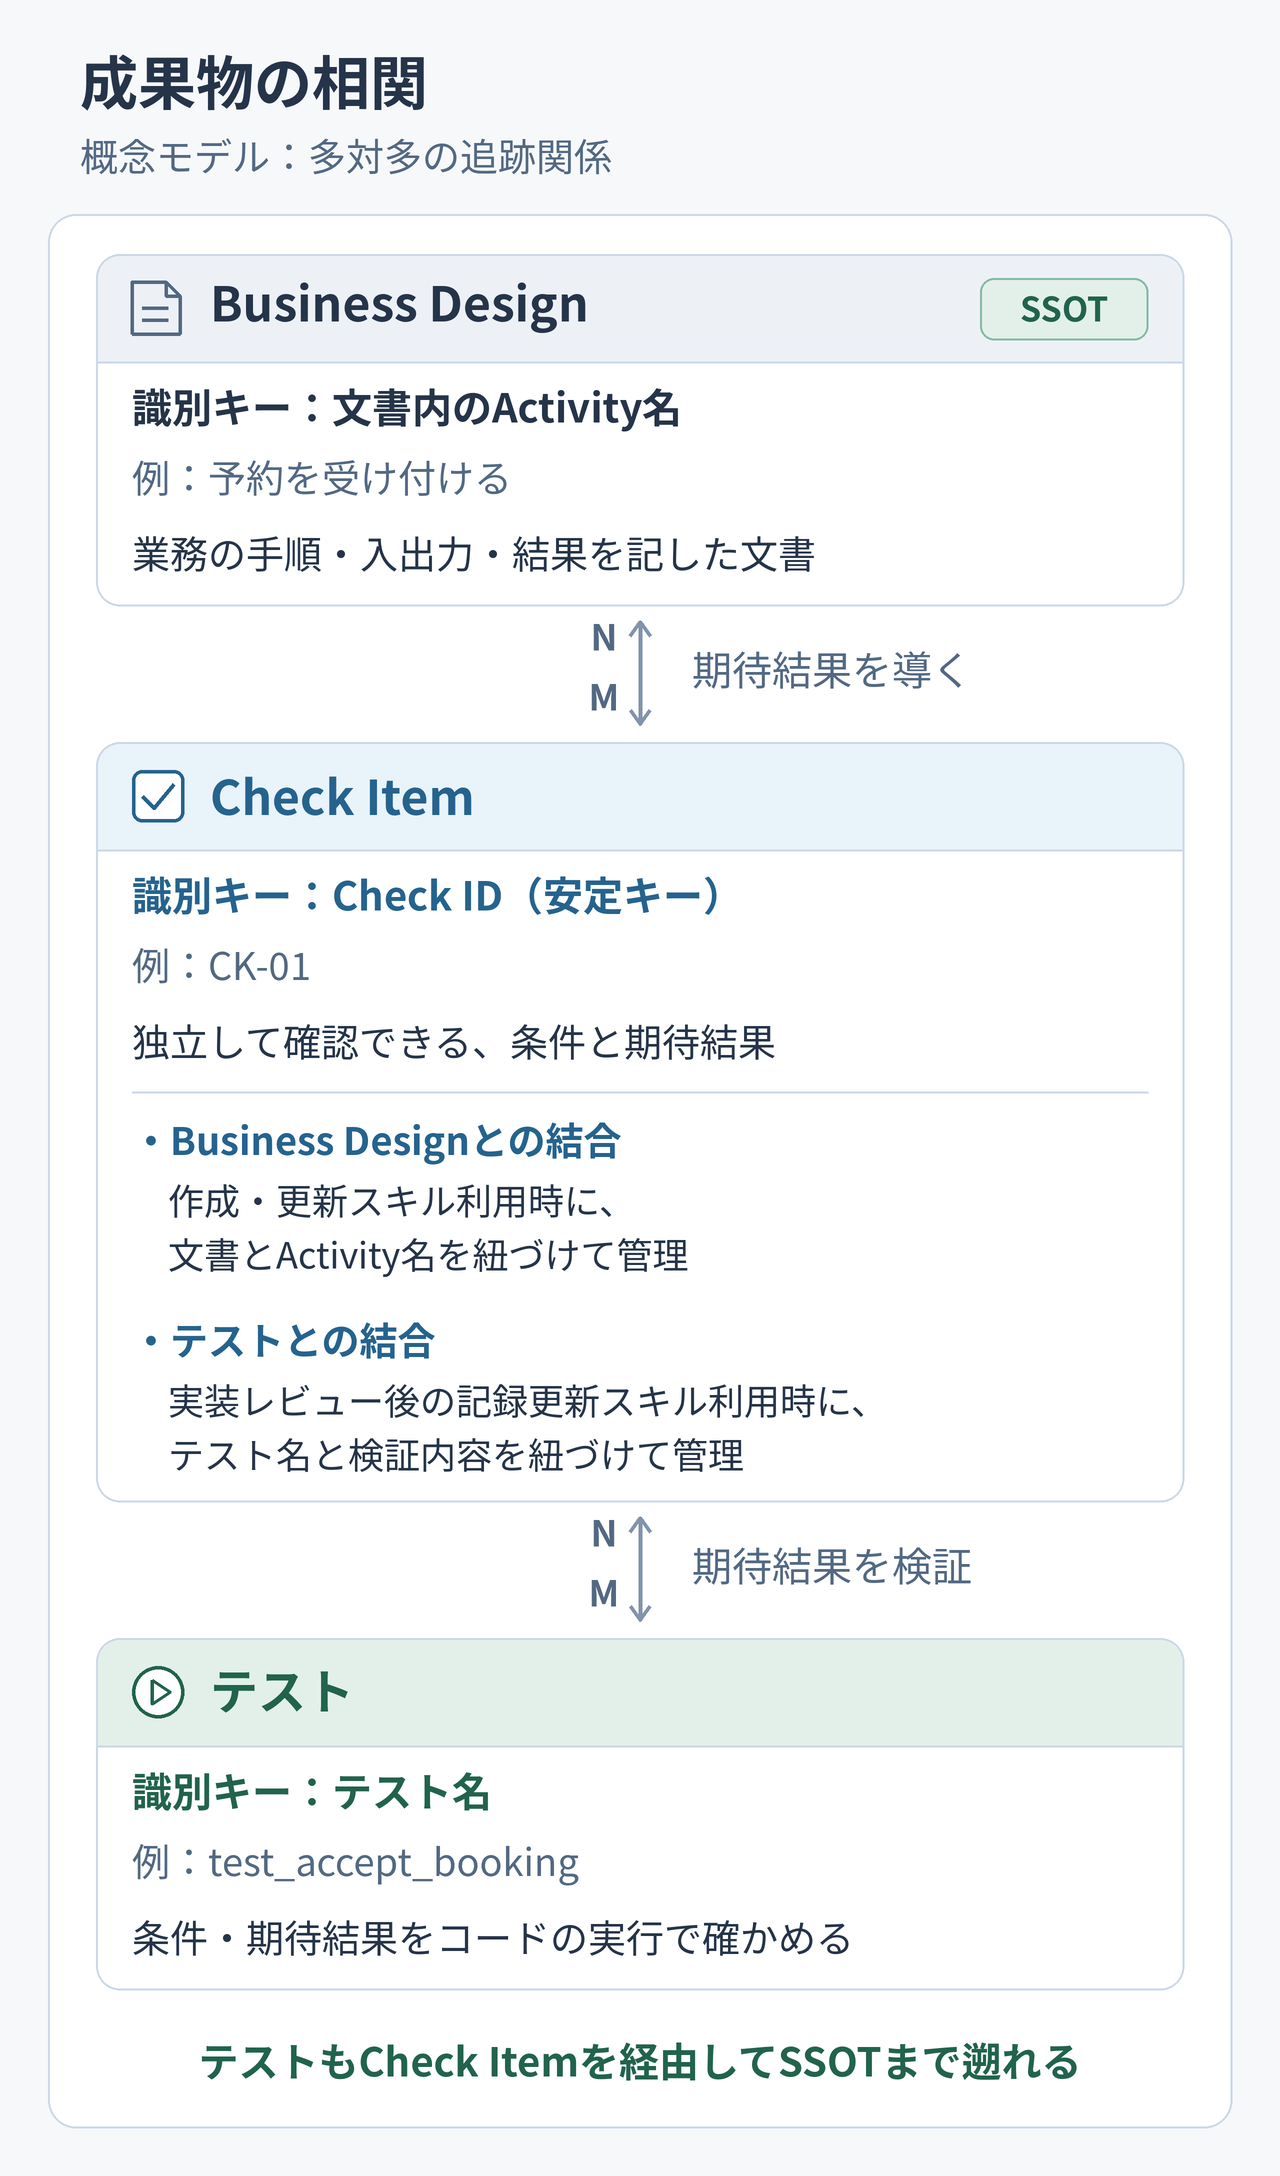
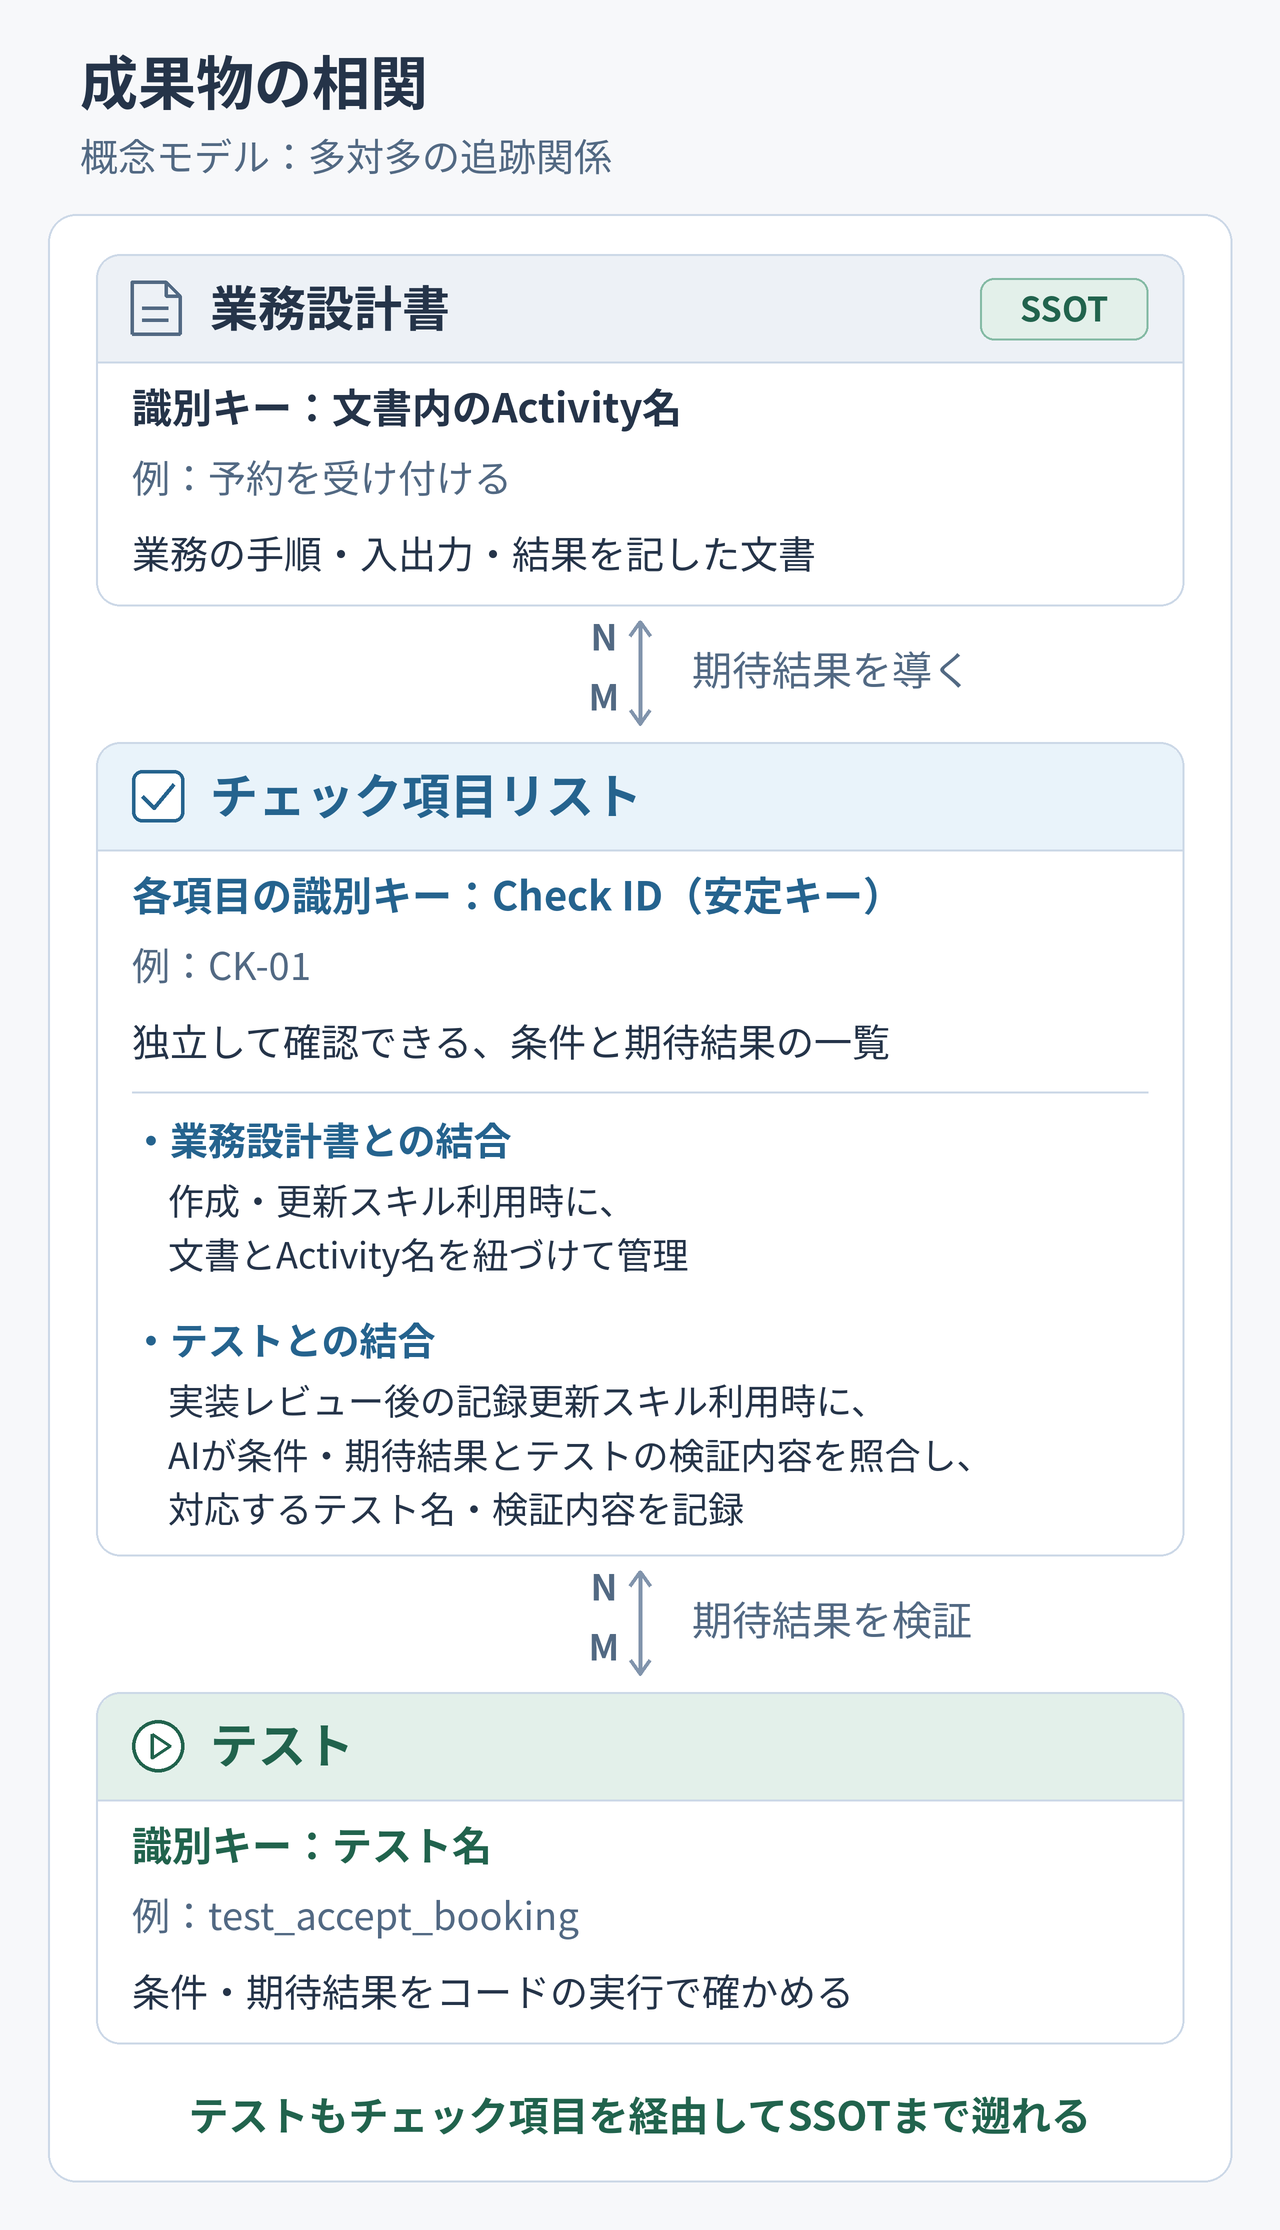
docs: use Japanese artifact headers and explain semantic test matching

Changed region(s): [[0.0625, 0.0312, 0.9375, 0.9062], [0.1562, 0.9375, 0.8438, 0.9688], [0.6562, 0.4375, 0.6875, 0.5]]

diff --git a/docs/images/traceability/render.py b/docs/images/traceability/render.py
@@ -142,36 +142,37 @@ def relation(c, top, bottom, label):
 
 
 def model_ja():
-    c = Canvas(1088)
+    c = Canvas(1115)
     c.title("成果物の相関", "概念モデル：多対多の追跡関係")
-    c.rect(24, 107, 592, 957, radius=14)
-    entity(c, 127, 176, "Business Design", "document", badge="SSOT",
+    c.rect(24, 107, 592, 984, radius=14)
+    entity(c, 127, 176, "業務設計書", "document", badge="SSOT",
            center_header=True, green_badge=True)
     c.text(66, 194, "識別キー：文書内のActivity名", 20, True, max_width=507)
     c.text(66, 230, "例：予約を受け付ける", 19, color="muted", max_width=507)
     c.text(66, 268, "業務の手順・入出力・結果を記した文書", 19, max_width=507)
     relation(c, 311, 362, "期待結果を導く")
-    entity(c, 371, 380, "Check Item", "check", fill="blue", ink="blue_ink",
+    entity(c, 371, 407, "チェック項目リスト", "check", fill="blue", ink="blue_ink",
            center_header=True)
-    c.text(66, 438, "識別キー：Check ID（安定キー）", 20, True,
+    c.text(66, 438, "各項目の識別キー：Check ID（安定キー）", 20, True,
            color="blue_ink", max_width=507)
     c.text(66, 474, "例：CK-01", 19, color="muted", max_width=507)
-    c.text(66, 512, "独立して確認できる、条件と期待結果", 19, max_width=507)
+    c.text(66, 512, "独立して確認できる、条件と期待結果の一覧", 19, max_width=507)
     c.line([(66, 546), (574, 546)], "line", 1)
-    c.text(66, 561, "・Business Designとの結合", 19, True, "blue_ink", max_width=507)
+    c.text(66, 561, "・業務設計書との結合", 19, True, "blue_ink", max_width=507)
     c.text(84, 592, "作成・更新スキル利用時に、", 18, max_width=489)
     c.text(84, 619, "文書とActivity名を紐づけて管理", 18, max_width=489)
     c.text(66, 661, "・テストとの結合", 19, True, "blue_ink", max_width=507)
     c.text(84, 692, "実装レビュー後の記録更新スキル利用時に、", 18, max_width=489)
-    c.text(84, 719, "テスト名と検証内容を紐づけて管理", 18, max_width=489)
-    relation(c, 759, 810, "期待結果を検証")
-    entity(c, 819, 176, "テスト", "play", fill="green", ink="green_ink",
+    c.text(84, 719, "AIが条件・期待結果とテストの検証内容を照合し、", 18, max_width=489)
+    c.text(84, 746, "対応するテスト名・検証内容を記録", 18, max_width=489)
+    relation(c, 786, 837, "期待結果を検証")
+    entity(c, 846, 176, "テスト", "play", fill="green", ink="green_ink",
            center_header=True)
-    c.text(66, 886, "識別キー：テスト名", 20, True,
+    c.text(66, 913, "識別キー：テスト名", 20, True,
            color="green_ink", max_width=507)
-    c.text(66, 922, "例：test_accept_booking", 19, color="muted", max_width=507)
-    c.text(66, 960, "条件・期待結果をコードの実行で確かめる", 19, max_width=507)
-    c.text(320, 1021, "テストもCheck Itemを経由してSSOTまで遡れる", 20, True,
+    c.text(66, 949, "例：test_accept_booking", 19, color="muted", max_width=507)
+    c.text(66, 987, "条件・期待結果をコードの実行で確かめる", 19, max_width=507)
+    c.text(320, 1048, "テストもチェック項目を経由してSSOTまで遡れる", 20, True,
            "green_ink", max_width=540, center=True)
     return c
 

diff --git a/README.ja.md b/README.ja.md
@@ -95,7 +95,7 @@ Alderで作成し、実装へ引き渡す主な成果物は、業務設計書と
 - **業務設計書への参照**：チェック項目の条件・期待結果の根拠となる箇所を示します。参照元文書とActivity名などの人間可読な識別子を使い、必要ならProcedure / Resultまでたどれるようにします。Activityに機械的な固定IDは要求しません。
 - **テストへの参照**：その条件・期待結果を検証する代表テストとassertionを示します。テスト名と参照先で対象を特定します。
 
-<a href="docs/images/traceability-model.ja.png"><img src="docs/images/traceability-model.ja.png" alt="成果物の相関を示す概念モデル。Check Item内に二つの結合管理を示す。作成・更新スキル利用時に文書とActivity名を紐づけて管理し、実装レビュー後の記録更新スキル利用時にテスト名と検証内容を紐づけて管理する。各カードに識別キー、その例、内容の概要を示す。Business DesignはSSOTの緑バッジで業務上の正本と示す。業務から期待結果を導き、テストが期待結果を検証する。業務設計書の業務とチェック項目、チェック項目と自動テストはそれぞれ多対多（N:M）でつながる。チェック項目の安定IDから業務上の根拠とテストのassertionをたどり、テストから業務へも逆引きできる。実DBスキーマではない。" width="640"></a>
+<a href="docs/images/traceability-model.ja.png"><img src="docs/images/traceability-model.ja.png" alt="成果物の相関を示す概念モデル。業務設計書・チェック項目リスト・テストを結び、チェック項目リスト内に二つの結合管理を示す。作成・更新スキル利用時に文書とActivity名を紐づけて管理し、実装レビュー後の記録更新スキル利用時に、AIが条件・期待結果とテストの検証内容を照合し、対応するテスト名・検証内容を記録する。各カードに識別キー、その例、内容の概要を示す。業務設計書はSSOTの緑バッジで業務上の正本と示す。業務から期待結果を導き、テストが期待結果を検証する。業務設計書の業務とチェック項目、チェック項目と自動テストはそれぞれ多対多（N:M）でつながる。チェック項目の安定IDから業務上の根拠とテストのassertionをたどり、テストから業務へも逆引きできる。実DBスキーマではない。" width="640"></a>
 
 業務設計書とチェック項目、チェック項目とテストは、それぞれ多対多（N:M）で結び付きます。一つのチェック項目が複数の業務を根拠にしたり、複数のテストで検証されたりすることがあります。逆に、一つの業務やテストが複数のチェック項目に関係することもあります。
 
@@ -105,7 +105,7 @@ Alderで作成し、実装へ引き渡す主な成果物は、業務設計書と
 
 1. **チェック項目を作る**：合意した業務設計書からAIが草案を作り、各Check IDに根拠となる文書・Activityへの参照を付けます。依頼者と設計者が条件・期待結果を確認して、実装へ引き渡します。この時点では、新規テストへの参照はまだありません。
 2. **実装とテストを作る**：実装を担うAIが、合意した業務とチェック項目をもとにCodeとテストを作り、テストを実行します。
-3. **テストとの対応をレビューする**：実装とは別のAIが、各チェック項目の条件・期待結果と、実際のテストのassertionを照合します。テスト名の一致やpassだけでは、対応が成立したとはみなしません。
+3. **テストとの対応をレビューする**：実装とは別のAIが、各チェック項目の条件・期待結果と、実際のテストのassertionを読み、意味が対応しているか照合します。テスト名の一致やpassだけでは、対応が成立したとはみなしません。確認できない対応は未確定として残します。
 4. **同じCheck IDにテストへの参照を記録する**：記録の更新も依頼すると、フォローアップを担うAIが、各Check IDの詳細へ対応するテスト名・参照先とassertionを追記します。検証が足りない部分は不足として残します。レビューだけの依頼では、記録は変更しません。
 
 具体的な依頼方法は[実装後のAlderレビュー](#3-alderレビュー)を参照してください。
